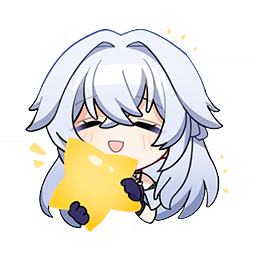
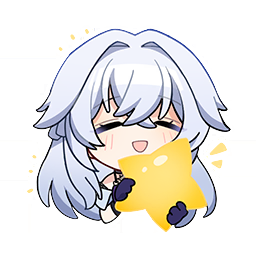
设置面板加桌宠大小滑块实时预览+星绘素材水平翻转+再次瘦身至44MB(砍OpenSSL/Svg)

diff --git a/pet.py b/pet.py
@@ -1164,7 +1164,8 @@ class PetWindow(QWidget):
         self._scale_x = 1.0
         self._scale_y = 1.0
         self._facing = 1.0          # 水平朝向：+1 正常 / -1 镜像（角色面向屏幕中心）
-        self.setFixedSize(BASE_SIZE, BASE_SIZE)
+        self._pet_size = int(_cfg.get('pet_size', BASE_SIZE)) or BASE_SIZE  # 桌宠尺寸（滑块可调，持久化）
+        self.setFixedSize(self._pet_size, self._pet_size)
 
         # 音频播放（QMediaPlayer 支持 mp3，不阻塞主线程；存 self 防 GC）
         # 打包环境下 QtMultimedia 插件可能缺失导致崩溃 → try/except 保证窗口/图片先显示
@@ -1425,7 +1426,8 @@ class PetWindow(QWidget):
             pm = self._movie.currentPixmap()
             if pm.isNull():
                 return
-            pm = pm.scaled(BASE_SIZE, BASE_SIZE, Qt.AspectRatioMode.KeepAspectRatio,
+            sz = self._pet_size
+            pm = pm.scaled(sz, sz, Qt.AspectRatioMode.KeepAspectRatio,
                            Qt.TransformationMode.SmoothTransformation)
             self.pixmap = pm
             self.update()
@@ -1438,10 +1440,12 @@ class PetWindow(QWidget):
         self.role = role
         self._stop_movie()
         self.pixmap = None
+        self._src_pixmap = None   # 未缩放的原图（静态角色）；供实时调尺寸用
         rdir = role_dir(role)
         found = role_image(rdir)  # (路径, kind: 'png'|'gif')，支持 image.png / 动图 gif.webp / 各图片格式
         if found:
             img, kind = found
+            sz = self._pet_size
             if kind == 'gif':
                 # 动图：QMovie 播放（gif/webp），首帧立即显示
                 try:
@@ -1454,17 +1458,20 @@ class PetWindow(QWidget):
                         if pm.isNull():
                             mv.jumpToFrame(0)
                             pm = mv.currentPixmap()
+                        self._src_pixmap = pm if not pm.isNull() else None
                     else:
                         pm = mv.currentPixmap()
+                        self._src_pixmap = pm if not pm.isNull() else None
                     if not pm.isNull():
-                        pm = pm.scaled(BASE_SIZE, BASE_SIZE, Qt.AspectRatioMode.KeepAspectRatio,
+                        pm = pm.scaled(sz, sz, Qt.AspectRatioMode.KeepAspectRatio,
                                        Qt.TransformationMode.SmoothTransformation)
                         self.pixmap = pm
                     elif mv.isValid() and mv.frameCount() <= 1:
                         # 静态 webp/gif：当静态图处理
                         pm2 = QPixmap(img)
                         if not pm2.isNull():
-                            pm2 = pm2.scaled(BASE_SIZE, BASE_SIZE, Qt.AspectRatioMode.KeepAspectRatio,
+                            self._src_pixmap = pm2
+                            pm2 = pm2.scaled(sz, sz, Qt.AspectRatioMode.KeepAspectRatio,
                                              Qt.TransformationMode.SmoothTransformation)
                             self.pixmap = pm2
                 except Exception as e:
@@ -1472,19 +1479,57 @@ class PetWindow(QWidget):
                     self._movie = None
                     pm2 = QPixmap(img)
                     if not pm2.isNull():
-                        pm2 = pm2.scaled(BASE_SIZE, BASE_SIZE, Qt.AspectRatioMode.KeepAspectRatio,
+                        self._src_pixmap = pm2
+                        pm2 = pm2.scaled(sz, sz, Qt.AspectRatioMode.KeepAspectRatio,
                                          Qt.TransformationMode.SmoothTransformation)
                         self.pixmap = pm2
             else:
                 pm = QPixmap(img)
                 if not pm.isNull():
-                    pm = pm.scaled(BASE_SIZE, BASE_SIZE, Qt.AspectRatioMode.KeepAspectRatio,
+                    self._src_pixmap = pm
+                    pm = pm.scaled(sz, sz, Qt.AspectRatioMode.KeepAspectRatio,
                                    Qt.TransformationMode.SmoothTransformation)
                     self.pixmap = pm
         self._scale_x = 1.0
         self._scale_y = 1.0
-        self.setFixedSize(BASE_SIZE, BASE_SIZE)
+        self.setFixedSize(self._pet_size, self._pet_size)
         self.update()
+
+    def set_pet_size(self, size):
+        """调整桌宠大小（px）：实时改窗口 + 重载当前角色图到新尺寸，并持久化"""
+        size = int(size)
+        if size < 60:
+            size = 60
+        if size > 600:
+            size = 600
+        if size == self._pet_size:
+            return
+        self._pet_size = size
+        # 保持窗口中心不变（缩放时居中微调，避免跳走）
+        try:
+            geo = self.frameGeometry()
+            cx = geo.center().x()
+            cy = geo.center().y()
+        except Exception:
+            cx = cy = None
+        self.setFixedSize(size, size)
+        if cx is not None:
+            self.move(cx - size // 2, cy - size // 2)
+        # 静态角色：从原图直接重缩放（丝滑）；动图角色：重建 QMovie（帧尺寸跟随）
+        if self._movie is None and self._src_pixmap is not None and not self._src_pixmap.isNull():
+            pm = self._src_pixmap.scaled(size, size, Qt.AspectRatioMode.KeepAspectRatio,
+                                         Qt.TransformationMode.SmoothTransformation)
+            self.pixmap = pm
+            self.update()
+        else:
+            role = self.role
+            self.load_role(role)
+        # 持久化
+        cfg = load_config()
+        cfg['pet_size'] = size
+        save_config(cfg)
+        self._clamp_to_screen(self.x(), self.y())
+        self._update_facing()
 
     # ------------- 播放 -------------
     def _target_devices(self):

diff --git a/settings_panel.py b/settings_panel.py
@@ -14,7 +14,7 @@ from PyQt6.QtWidgets import (
     QApplication, QWidget, QVBoxLayout, QHBoxLayout, QLabel,
     QPushButton, QListWidget, QListWidgetItem, QFileDialog,
     QMessageBox, QGroupBox, QScrollArea, QFrame, QCheckBox,
-    QComboBox, QLineEdit, QSizePolicy,
+    QComboBox, QLineEdit, QSizePolicy, QSlider,
 )
 
 # 无边框窗口缩放：WM_NCHITTEST 命中测试常量（仅 Windows 生效）
@@ -213,6 +213,20 @@ class SettingsPanel(QWidget):
         cur_row.addWidget(self.lbl_cur_role)
         cur_row.addStretch(1)
         rl.addLayout(cur_row)
+        # 桌宠大小滑块（拖动实时预览）
+        size_row = QHBoxLayout()
+        size_row.addWidget(QLabel("桌宠大小："))
+        self.sld_size = QSlider(Qt.Orientation.Horizontal)
+        self.sld_size.setRange(60, 600)
+        self.sld_size.setSingleStep(10)
+        self.sld_size.setPageStep(20)
+        self.sld_size.valueChanged.connect(self._on_size_changed)
+        size_row.addWidget(self.sld_size, 1)
+        self.lbl_size_val = QLabel("200")
+        self.lbl_size_val.setMinimumWidth(34)
+        self.lbl_size_val.setStyleSheet("color:#ffd76e;")
+        size_row.addWidget(self.lbl_size_val)
+        rl.addLayout(size_row)
         # 角色列表 + 侧按钮
         row = QHBoxLayout()
         self.role_list = QListWidget()
@@ -557,6 +571,12 @@ class SettingsPanel(QWidget):
         pet = self._current_pet()
         if pet is None:
             return
+        # 大小滑块同步
+        sz = int(getattr(pet, '_pet_size', 200) or 200)
+        self.sld_size.blockSignals(True)
+        self.sld_size.setValue(sz)
+        self.sld_size.blockSignals(False)
+        self.lbl_size_val.setText(str(sz))
         # 角色
         self._refresh_role_list()
         # 音频
@@ -659,6 +679,16 @@ class SettingsPanel(QWidget):
             cmb.blockSignals(False)
 
     # ---------------- 角色操作 ----------------
+    def _on_size_changed(self, val):
+        """大小滑块：实时调桌宠尺寸"""
+        pet = self._current_pet()
+        if pet is None:
+            return
+        self.lbl_size_val.setText(str(val))
+        if hasattr(pet, 'set_pet_size'):
+            pet.set_pet_size(val)
+        # 面板本身可无动作（桌宠实时变）
+
     def _on_role_clicked(self, item):
         # 单击=切换
         role = item.text().replace("  ←当前", "")

diff --git a/DEVELOPMENT.md b/DEVELOPMENT.md
@@ -78,6 +78,18 @@ pyinstaller --onefile --windowed --noconsole --name DesktopPet `
 
 ## 6. 变更记录
 
+### 2026-09-06（设置面板加桌宠大小滑块实时预览 + 再次瘦身 46.1→44MB）
+- **需求**：设置面板加一个可调整桌宠大小的滑块，拖动实时看效果
+- **实现**（`pet.py` + `settings_panel.py`）：
+  1. `pet.py`：`_pet_size` 实例变量（默认 BASE_SIZE=200，读取配置 `pet_size` 持久化）；构造 `setFixedSize(_pet_size)`；`load_role`/`_set_role_frame` 全部改用 `_pet_size` 缩放
+  2. `set_pet_size(size)`：60–600px 范围；保持窗口中心不变；静态角色从 `_src_pixmap` 原图直接重缩放（丝滑），动图角色重建 QMovie；持久化到配置；clamp 屏幕内 + 更新朝向
+  3. `load_role` 新增保存未缩放原图 `_src_pixmap`
+  4. `settings_panel.py`：形象角色模块加「桌宠大小」QSlider（60-600，步进10）+ 数值标签；`_on_size_changed` 实时调 `pet.set_pet_size`；`refresh_all` 同步滑块
+- **进一步瘦身 46.1 → 44.0MB**：spec `_BIN_KEEP` 追加 `Qt6Svg`/`libcrypto-3`/`libssl-3`（Qt TLS 运行时才按需加载，桌宠纯本地播放永不触达；Qt6Svg 界面无 SVG 用）；实测 exe 启动正常 + 本地 mp3 播放正常（不依赖 openssl）
+- **素材**：星绘 image.png 水平翻转（用户反馈表情反了）——桌面数据版 + 项目源码版都翻，透明保留
+- **验证**：py_compile ✅；隔离 exe 启动 QtMultimedia 正常 ✅；本地 mp3 播放 OK ✅；大小范围逻辑单测 ✅；exe 46.1→43.99MB
+- 涉及：`pet.py`（_pet_size/_src_pixmap/set_pet_size/load_role/_set_role_frame）、`settings_panel.py`（QSlider/_on_size_changed/refresh_all）、`卡丘简易桌宠.spec`（_BIN_KEEP）、`assets/characters/星绘/image.png`
+
 ### 2026-09-06（左右翻转加平滑动画：cos 曲线压扁转身，不再生硬）
 - **需求**：上一版左右翻转是瞬间镜像，太生硬 → 要平滑"转身"动画
 - **实现**（`pet.py`）：
